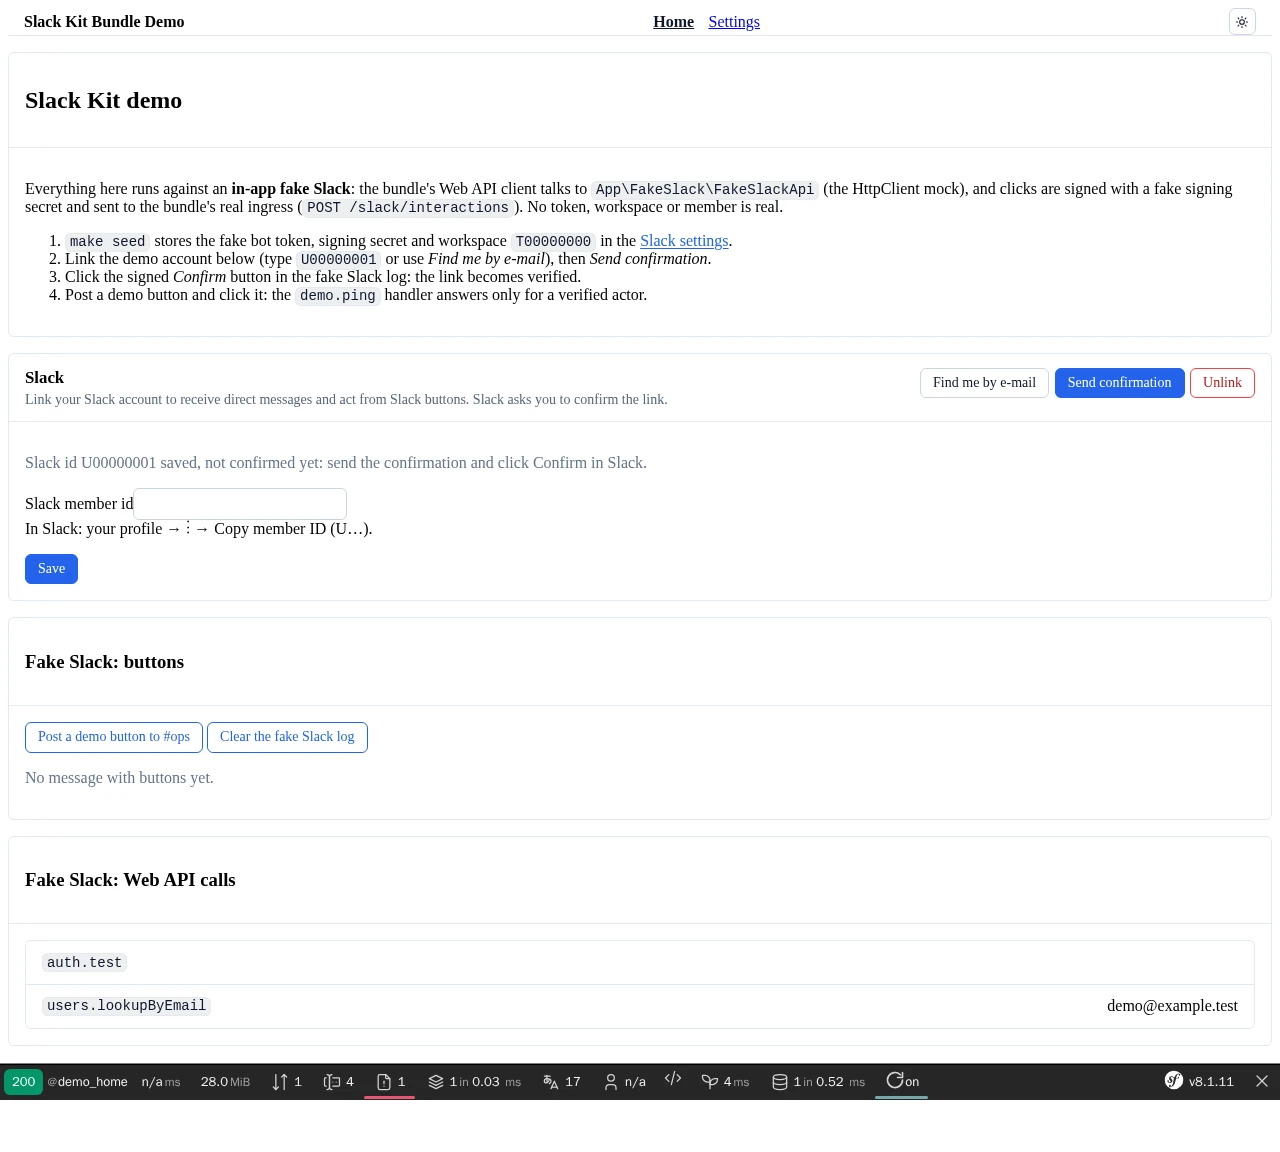
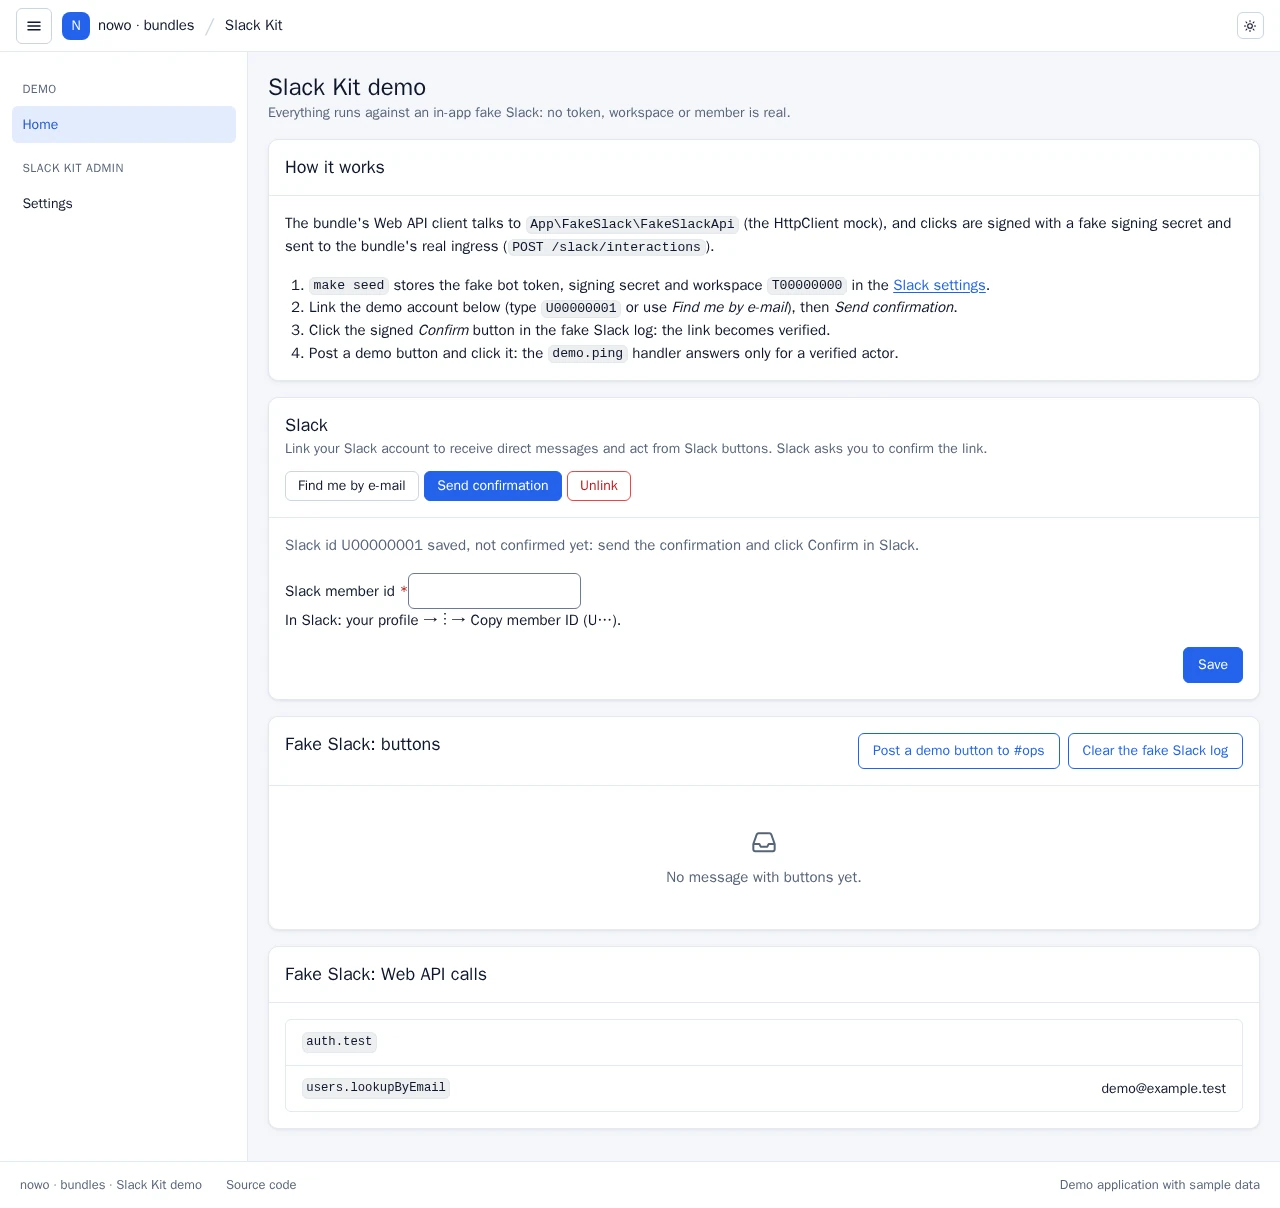
chore(demo): run the demo in UiKit's demo platform shell (#28)

diff --git a/demo/symfony8/e2e/tests/demo-platform.spec.ts b/demo/symfony8/e2e/tests/demo-platform.spec.ts
@@ -1,0 +1,171 @@
+import { test, expect, type Page } from '@playwright/test';
+import AxeBuilder from '@axe-core/playwright';
+
+/**
+ * REQ-DEMO-014: the demo runs inside UiKit's demo platform shell. Every demo page, at 1440 px and at 390 px with a touch
+ * context: the shell layout and style rules (no demo styles, no host theme tokens, no framework classes, 44 px targets,
+ * input borders 3:1), axe (wcag2a / 2aa / 21a / 21aa, serious + critical = 0) in light and dark, and the keyboard drawer.
+ */
+const PAGES: Array<{ name: string; path: string; auth?: boolean }> = [
+  { name: 'home', path: '/' },
+  { name: 'slack settings', path: '/admin/settings/sections/slack' },
+];
+
+/** Signs the demo user in (pages marked `auth`). */
+async function signIn(page: Page): Promise<void> {
+  // this demo has no sign-in
+}
+
+async function open(page: Page, def: { path: string; auth?: boolean }): Promise<void> {
+  if (def.auth) {
+    await signIn(page);
+  }
+  await page.goto(def.path);
+}
+
+type Theme = 'light' | 'dark';
+
+async function setTheme(page: Page, theme: Theme): Promise<void> {
+  await page.evaluate((t) => {
+    document.documentElement.setAttribute('data-theme', t);
+    document.documentElement.setAttribute('data-bs-theme', t);
+  }, theme);
+}
+
+async function axe(page: Page): Promise<string[]> {
+  const result = await new AxeBuilder({ page }).withTags(['wcag2a', 'wcag2aa', 'wcag21a', 'wcag21aa']).exclude('.sf-toolbar').analyze();
+  return result.violations
+    .filter((v) => v.impact === 'serious' || v.impact === 'critical')
+    .map((v) => `${v.id}: ${v.nodes.map((n) => n.target.join(' ')).join(', ')}`);
+}
+
+/* eslint-disable */
+// prettier-ignore
+function demoPlatformRules(): string[] {
+  const issues = [];
+  const main = document.querySelector('#nowo-ui-content');
+  const shell = document.querySelector('[data-testid="demo-platform"]');
+  if (!main || !shell) return ['no-demo-platform-shell'];
+  const visible = (el) => !!(el.offsetWidth || el.offsetHeight || el.getClientRects().length);
+  const carded = (el) => el.closest('.nowo-ui-card, [data-nowo-ui-region="table"], [data-nowo-ui-region="form"], .nowo-ui-form-panel, dialog');
+  const skip = (el) => el.closest('dialog, [data-nowo-ui-region="filters"], .nowo-ui-filters, .nowo-ui-page-header');
+
+  // Layout grammar.
+  main.querySelectorAll('table').forEach((t) => { if (!carded(t)) issues.push('table-outside-card'); });
+  main.querySelectorAll('form').forEach((f) => {
+    if (f.querySelector('input:not([type="hidden"]), select, textarea') && !carded(f) && !skip(f) && !f.closest('table')) issues.push('form-outside-card');
+  });
+  const primaries = [...main.querySelectorAll('.nowo-ui-btn--primary')].filter((b) => visible(b) && !b.closest('table, dialog, [data-nowo-ui-region="filters"], .nowo-ui-filters, form'));
+  if (primaries.length > 1) issues.push(`primary-buttons:${primaries.length}`);
+  const header = main.querySelector('.nowo-ui-page-header');
+  const flashes = main.querySelector('.nowo-ui-flashes');
+  if (header && flashes && (flashes.compareDocumentPosition(header) & Node.DOCUMENT_POSITION_FOLLOWING)) issues.push('flashes-before-page-header');
+  if (document.documentElement.scrollWidth > document.documentElement.clientWidth + 1) issues.push('page-scrolls-horizontally');
+
+  // Styles: no demo styles, no host theme tokens, no CDN / foreign stylesheet, no framework classes inside the shell.
+  document.querySelectorAll('style').forEach((s) => {
+    if (s.matches('[data-nowo-ui-theme-tokens], [data-nowo-ui-appearance]')) { issues.push('host-theme-tokens'); return; }
+    if (!/sf-toolbar|sfwdt|sf-minitoolbar|sf-display/.test(s.textContent || '') && !s.closest('[id^="sfwdt"], .sf-toolbar')) issues.push('style-element');
+  });
+  document.querySelectorAll('link[rel="stylesheet"]').forEach((l) => {
+    const path = new URL(l.href, location.href).pathname;
+    if (!path.startsWith('/bundles/') && !path.startsWith('/_wdt/') && !path.startsWith('/_profiler/')) issues.push(`stylesheet:${path}`);
+  });
+  const framework = /^(acme-.*|nav-tabs|nav-link|nav-item|alert|alert-.*|form-check.*|form-control|form-select|form-label|btn|btn-.*|card|card-.*|badge|row|col|col-.*|table|table-.*)$/;
+  shell.querySelectorAll('[class]').forEach((el) => {
+    for (const c of el.classList) { if (framework.test(c)) { issues.push(`framework-class:${c}`); break; } }
+  });
+
+  // Drawer: below 901 px a closed drawer is inert and the burger says so.
+  const aside = shell.querySelector('[data-nowo-ui-aside]');
+  if (aside && window.innerWidth < 901) {
+    const open = shell.classList.contains('is-aside-open-mobile');
+    if (!open && !aside.hasAttribute('inert')) issues.push('drawer-not-inert');
+    shell.querySelectorAll('[data-nowo-ui-burger]').forEach((b) => {
+      if (visible(b) && b.getAttribute('aria-expanded') !== (open ? 'true' : 'false')) issues.push('burger-state');
+    });
+  }
+
+  // Touch: 44 px targets on coarse pointers (checkbox / radio 24 px, their label carries the 44 px row).
+  if (window.matchMedia('(pointer: coarse)').matches) {
+    const controls = [...shell.querySelectorAll('.nowo-ui-btn, button, summary, input:not([type="hidden"]), select, textarea, [role="tab"], .nowo-ui-aside__link, .nowo-ui-demo-platform__locale')]
+      .filter((el) => visible(el) && !el.closest('[inert], table, .ts-control'));
+    for (const el of controls) {
+      const r = el.getBoundingClientRect();
+      const small = el.matches('input[type="checkbox"], input[type="radio"]') ? r.height < 24 || r.width < 24 : r.height < 43.5;
+      if (small) { issues.push(`target-under-44px:${(el.className && String(el.className).split(' ')[0]) || el.tagName.toLowerCase()}`); }
+    }
+  }
+
+  // Inputs: boundary 3:1 or more against the surface behind them (WCAG 1.4.11).
+  const rgb = (c) => { const m = c.match(/[\d.]+/g); return m ? m.slice(0, 4).map(Number) : null; };
+  const lum = (c) => { const v = c.slice(0, 3).map((x) => { const s = x / 255; return s <= 0.03928 ? s / 12.92 : ((s + 0.055) / 1.055) ** 2.4; }); return 0.2126 * v[0] + 0.7152 * v[1] + 0.0722 * v[2]; };
+  const bgOf = (el) => { for (let n = el.parentElement; n; n = n.parentElement) { const c = rgb(getComputedStyle(n).backgroundColor); if (c && (c.length < 4 || c[3] > 0)) return c; } return [255, 255, 255]; };
+  shell.querySelectorAll('input:not([type="hidden"], [type="checkbox"], [type="radio"]), select, textarea').forEach((el) => {
+    if (!visible(el) || el.closest('[inert]')) return;
+    const border = rgb(getComputedStyle(el).borderTopColor);
+    if (!border) return;
+    const a = lum(border); const b = lum(bgOf(el));
+    if ((Math.max(a, b) + 0.05) / (Math.min(a, b) + 0.05) < 3) issues.push(`input-border-under-3:1:${el.id || el.name || el.tagName.toLowerCase()}`);
+  });
+
+  return [...new Set(issues)];
+}
+
+const PHONE = { viewport: { width: 390, height: 844 }, isMobile: true, hasTouch: true };
+
+for (const def of PAGES) {
+  test.describe(`demo platform: ${def.name}`, () => {
+    test('rules at 1440 px', async ({ page }) => {
+      await page.setViewportSize({ width: 1440, height: 900 });
+      await open(page, def);
+      expect(await page.evaluate(demoPlatformRules)).toEqual([]);
+    });
+
+    test('rules at 390 px, touch', async ({ browser }) => {
+      const context = await browser.newContext(PHONE);
+      const page = await context.newPage();
+      await open(page, def);
+      expect(await page.evaluate(demoPlatformRules)).toEqual([]);
+      await context.close();
+    });
+
+    for (const theme of ['light', 'dark'] as const) {
+      test(`axe ${theme}, 1440 px`, async ({ page }) => {
+        await page.setViewportSize({ width: 1440, height: 900 });
+        await open(page, def);
+        await setTheme(page, theme);
+        expect(await axe(page)).toEqual([]);
+      });
+
+      test(`axe ${theme}, 390 px`, async ({ browser }) => {
+        const context = await browser.newContext(PHONE);
+        const page = await context.newPage();
+        await open(page, def);
+        await setTheme(page, theme);
+        expect(await axe(page)).toEqual([]);
+        await context.close();
+      });
+    }
+  });
+}
+
+test('phone drawer: keyboard in and out, inert while closed', async ({ browser }) => {
+  const context = await browser.newContext(PHONE);
+  const page = await context.newPage();
+  await page.goto(PAGES[0].path);
+  const aside = page.locator('[data-nowo-ui-aside]');
+  const burger = page.locator('[data-nowo-ui-burger]').first();
+  await expect(aside).toHaveAttribute('inert', '');
+  await expect(burger).toHaveAttribute('aria-expanded', 'false');
+  await burger.focus();
+  await page.keyboard.press('Enter');
+  await expect(burger).toHaveAttribute('aria-expanded', 'true');
+  await expect(page.locator('[data-nowo-ui-aside] a:focus')).toHaveCount(1);
+  await expect(page.locator('.nowo-ui-main')).toHaveAttribute('inert', '');
+  await expect(page.locator('html')).toHaveClass(/nowo-ui-drawer-open/);
+  await page.keyboard.press('Escape');
+  await expect(burger).toBeFocused();
+  await expect(aside).toHaveAttribute('inert', '');
+  await context.close();
+});

diff --git a/demo/symfony8/e2e/tests/helpers.ts b/demo/symfony8/e2e/tests/helpers.ts
@@ -1,28 +1,11 @@
 import { type Page } from '@playwright/test';
 
-/** Wait until the Symfony Web Debug Toolbar has finished loading (optional outside dev). */
-export async function waitForWebProfiler(page: Page): Promise<void> {
-  await page.waitForSelector('.sf-toolbar', { state: 'visible', timeout: 20000 }).catch(() => undefined);
-  const mini = page.locator('.sf-minitoolbar a').first();
-  if (await mini.isVisible().catch(() => false)) {
-    await mini.click();
-  }
-  await page
-    .waitForFunction(
-      () => {
-        const bar = document.querySelector('.sf-toolbar') as HTMLElement | null;
-        if (!bar || bar.offsetParent === null) {
-          return true;
-        }
-        return !!document.querySelector('.sf-toolbar-block');
-      },
-      { timeout: 25000, polling: 250 },
-    )
-    .catch(() => undefined);
-  await new Promise((r) => setTimeout(r, 400));
-}
-
 /** The section form of the settings scaffold. */
 export function sectionForm(page: Page) {
   return page.locator('form[name="settings_section"]');
+}
+
+/** README screenshots never show the Symfony Web Debug Toolbar. */
+export async function hideWebProfiler(page: Page): Promise<void> {
+  await page.addStyleTag({ content: '.sf-toolbar, .sf-minitoolbar, [id^="sfwdt"] { display: none !important; }' });
 }

diff --git a/demo/symfony8/e2e/tests/screenshots.spec.ts b/demo/symfony8/e2e/tests/screenshots.spec.ts
@@ -1,7 +1,7 @@
 import { test, expect } from '@playwright/test';
 import { mkdirSync } from 'node:fs';
 import { resolve } from 'node:path';
-import { sectionForm, waitForWebProfiler } from './helpers';
+import { hideWebProfiler, sectionForm } from './helpers';
 
 /** REQ-DEMO-013 — README screenshots (captured as PNG, converted to WebP by scripts/to-webp.mjs). */
 const outDir = process.env.SCREENSHOT_DIR
@@ -20,14 +20,14 @@ test.describe('Slack kit screenshots', () => {
     await page.getByRole('button', { name: 'Test connection' }).click();
     await expect(page.getByText('Connected to Demo workspace (T00000000) as demobot.')).toBeVisible();
     await expect(sectionForm(page)).toBeVisible();
-    await waitForWebProfiler(page);
+    await hideWebProfiler(page);
     await page.screenshot({ path: resolve(outDir, 'slack-settings.png'), fullPage: true });
   });
 
   test('home — account link card and fake Slack log', async ({ page }) => {
     await page.goto('/');
     await expect(page.getByTestId('demo-link-card')).toBeVisible();
-    await waitForWebProfiler(page);
+    await hideWebProfiler(page);
     await page.screenshot({ path: resolve(outDir, 'home.png'), fullPage: true });
   });
 });

diff --git a/docs/CHANGELOG.md b/docs/CHANGELOG.md
@@ -47,6 +47,10 @@ All notable changes to this project are documented here. The format follows
 
 ## [Unreleased]
 
+### Changed
+
+- demo: the demo runs inside UiKit's demo platform shell (`@NowoUiKit/demo_platform/layout.html.twig`, UiKit ^2.60): shared top bar, aside navigation and section cards, no demo masthead markup; the Web Debug Toolbar and the CDN hot-reload scripts are off in the demo and its README screenshots. Demo only, no release.
+
 ## [1.7.0] - 2026-11-20
 
 ### Added
